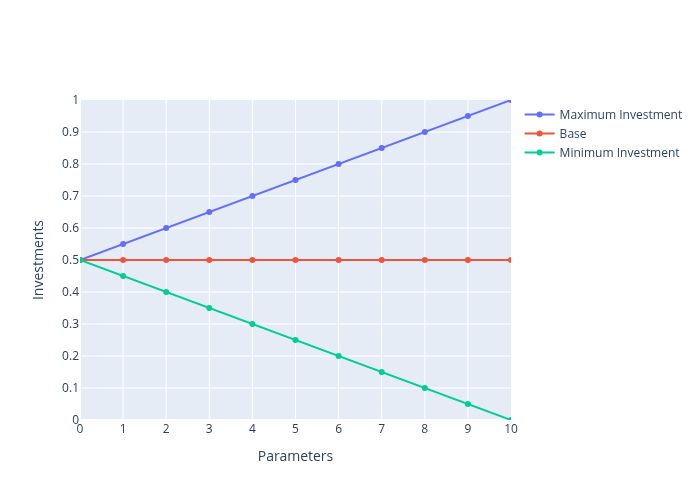
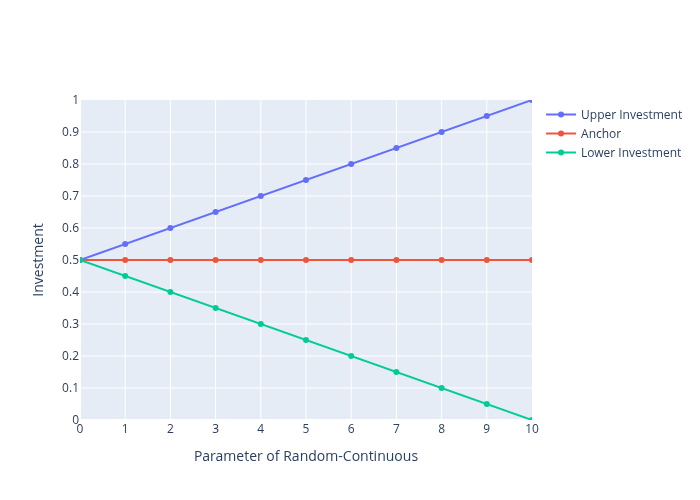
correcting labels of graph

diff --git a/VBSA/data/generate_image_randomC_investments.py b/VBSA/data/generate_image_randomC_investments.py
@@ -18,13 +18,13 @@ parameter_B = 5
 parameter_start = 0
 parameter_end = 10
 list_parameters = range(parameter_start, parameter_end+1)
-add_trace_to_fig(fig, [0.5 + 0.05 * j for j in list_parameters], "Maximum Investment")
-add_trace_to_fig(fig, [0.5] * len(list_parameters), "Base")
-add_trace_to_fig(fig, [0.5 + -0.05 * j for j in list_parameters], "Minimum Investment")
+add_trace_to_fig(fig, [0.5 + 0.05 * j for j in list_parameters], "Upper Investment")
+add_trace_to_fig(fig, [0.5] * len(list_parameters), "Anchor")
+add_trace_to_fig(fig, [0.5 + -0.05 * j for j in list_parameters], "Lower Investment")
 
 fig.update_layout(
-    xaxis=dict(range=[0, 10], title="Parameters", dtick=1),
-    yaxis=dict(range=[0, 1], title="Investments", dtick=0.1)
+    xaxis=dict(range=[0, 10], title="Parameter of Random-Continuous", dtick=1),
+    yaxis=dict(range=[0, 1], title="Investment", dtick=0.1)
 )
 
-fig.write_image("plots/Discussion/RandomC/investments.png")
+fig.write_image("plots/Discussion/Random-Continuous/investments.png")
